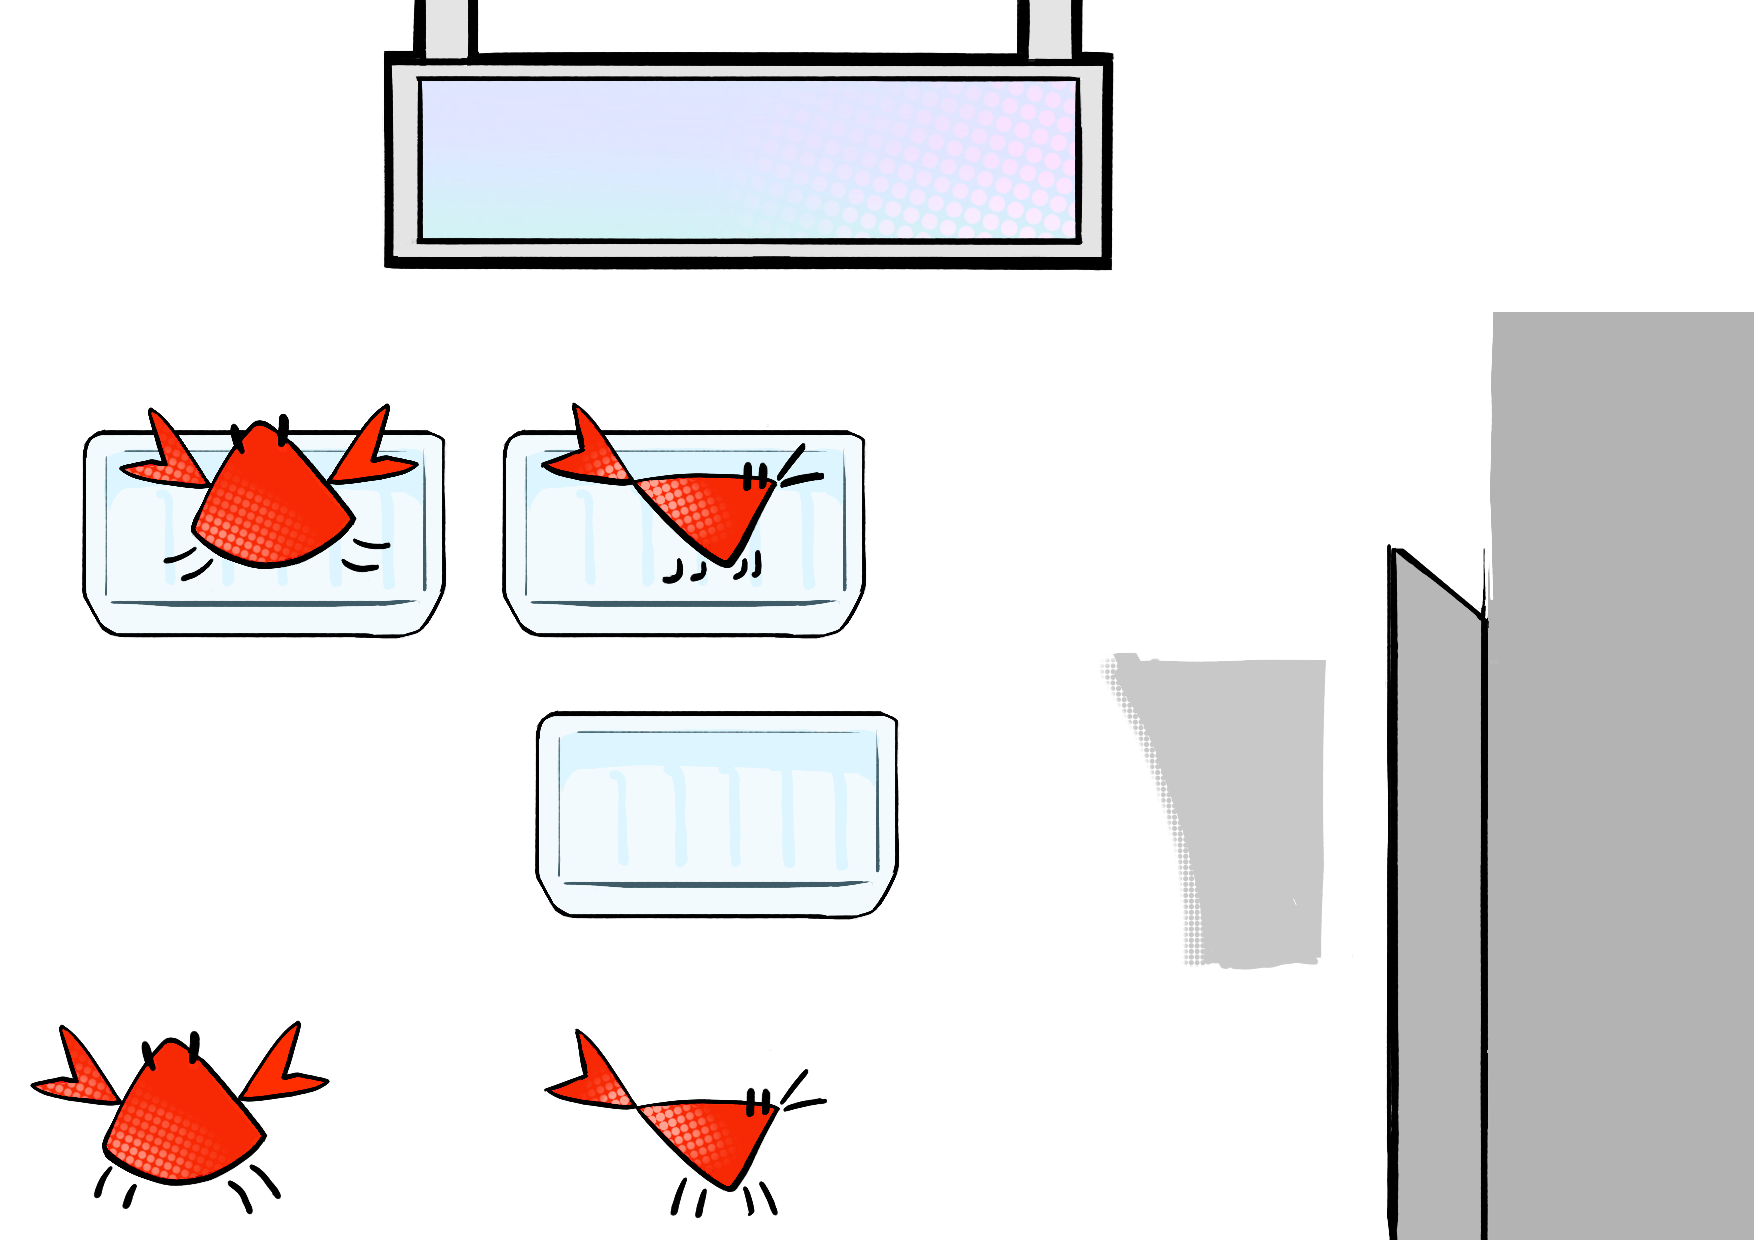
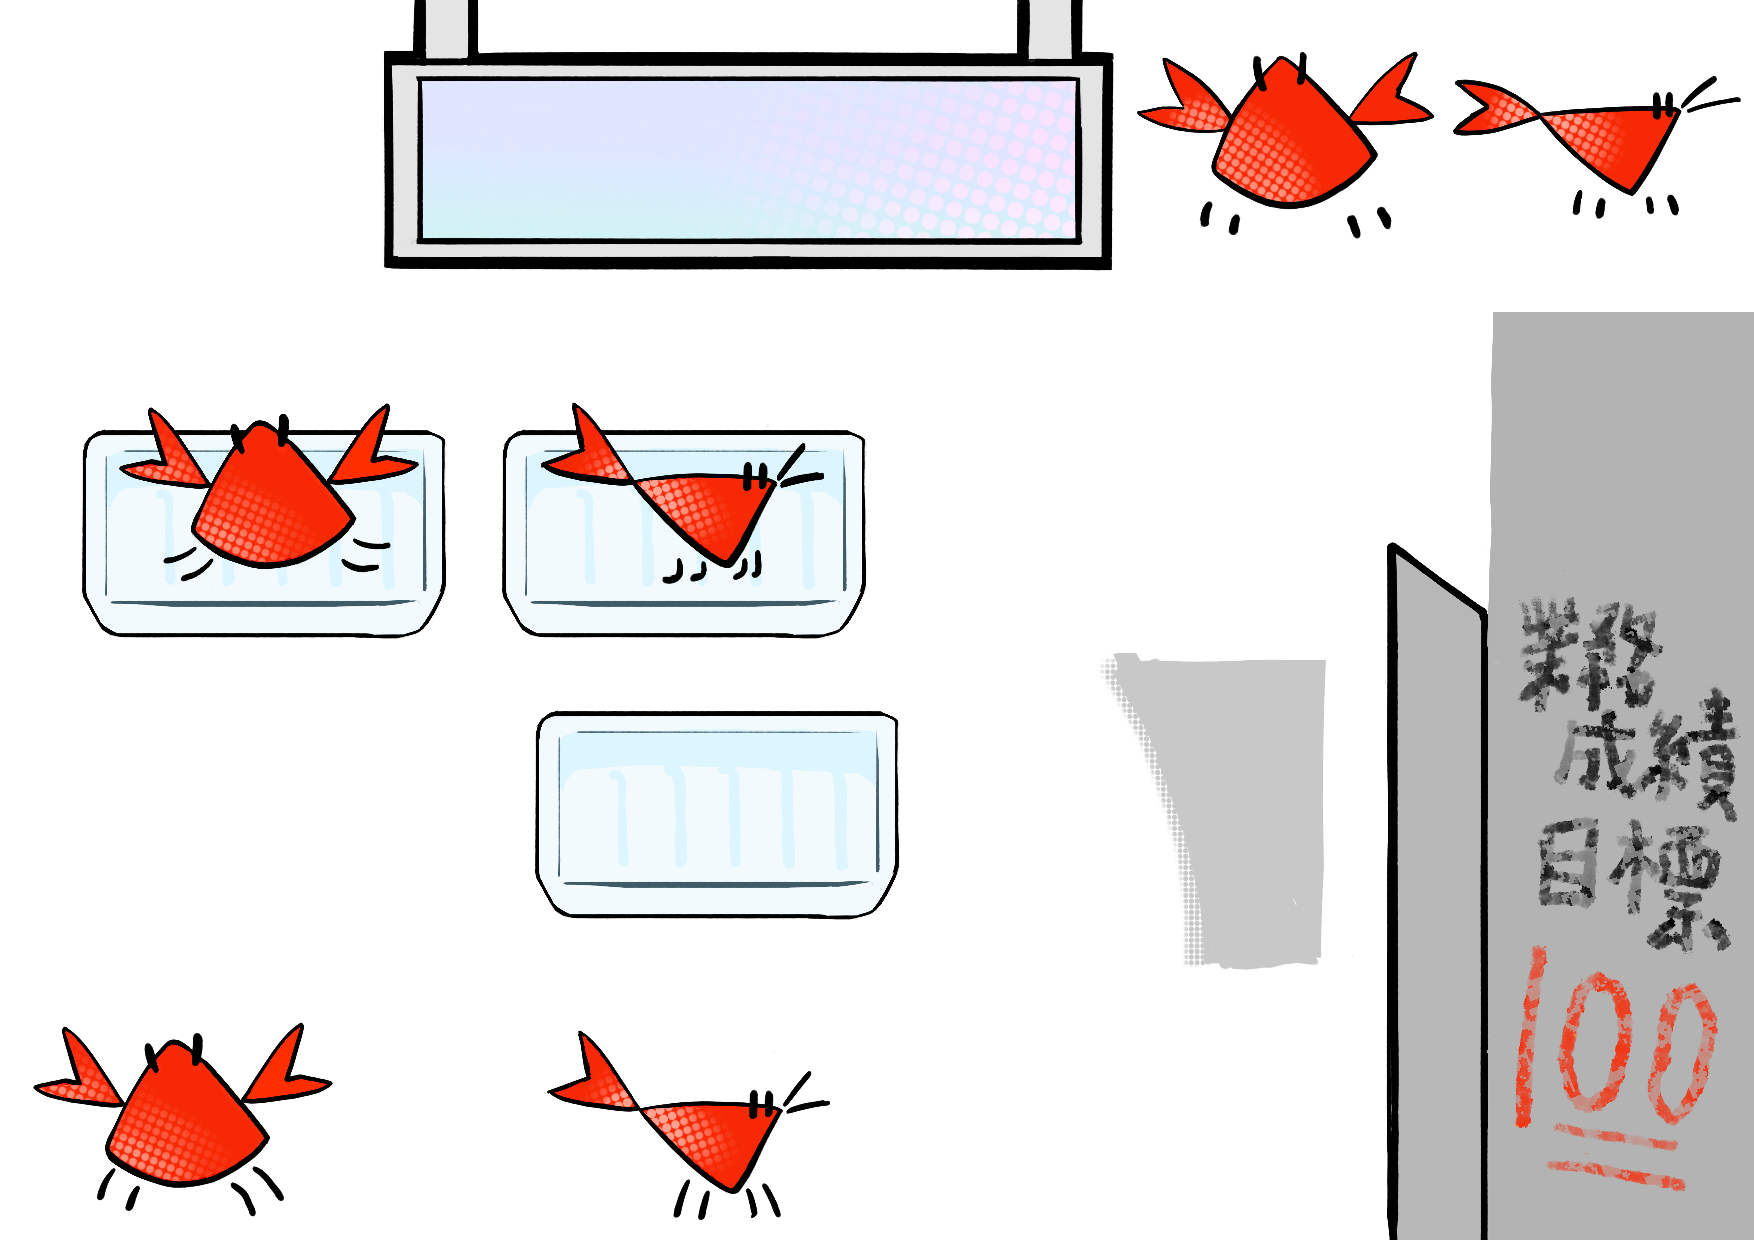
シーンサイズをUnityRoomように変更しました！ 画像を差し替えました！ ゲームオーバーの多段ヒットを解消しました！

diff --git a/Assets/Script/Parameter/judge.cs b/Assets/Script/Parameter/judge.cs
@@ -16,7 +16,7 @@ public class judge : Soundplayer
 
     //サウンド番号：０は正解　１は不正解
 
-    void OnTriggerExit2D(Collider2D other)
+    void OnTriggerEnter2D(Collider2D other)
     {
         if (targetTags.Contains(other.gameObject.tag) && Scoredata.Score >= 0)
         {

diff --git a/Assets/Script/Score/ScoreCounter.cs b/Assets/Script/Score/ScoreCounter.cs
@@ -14,7 +14,8 @@ public class ScoreCounter : MonoBehaviour
 
     void Start()
     {
-        Scoredata.Score = 5;
+        Scoredata.Score     = 5;
+        Scoredata.HighScore = 5;
     }
 
     void Update()
